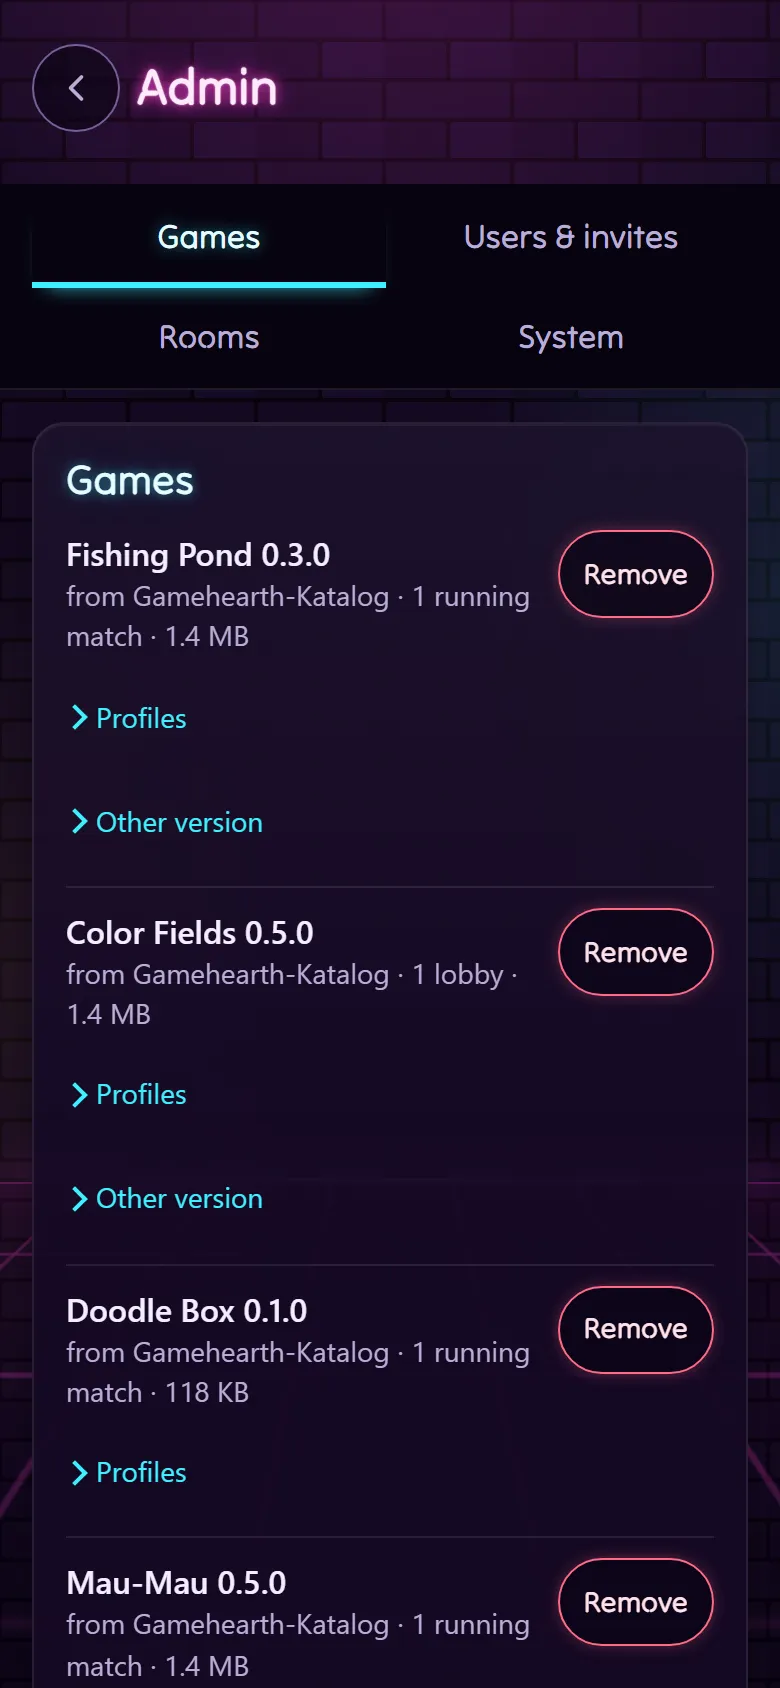
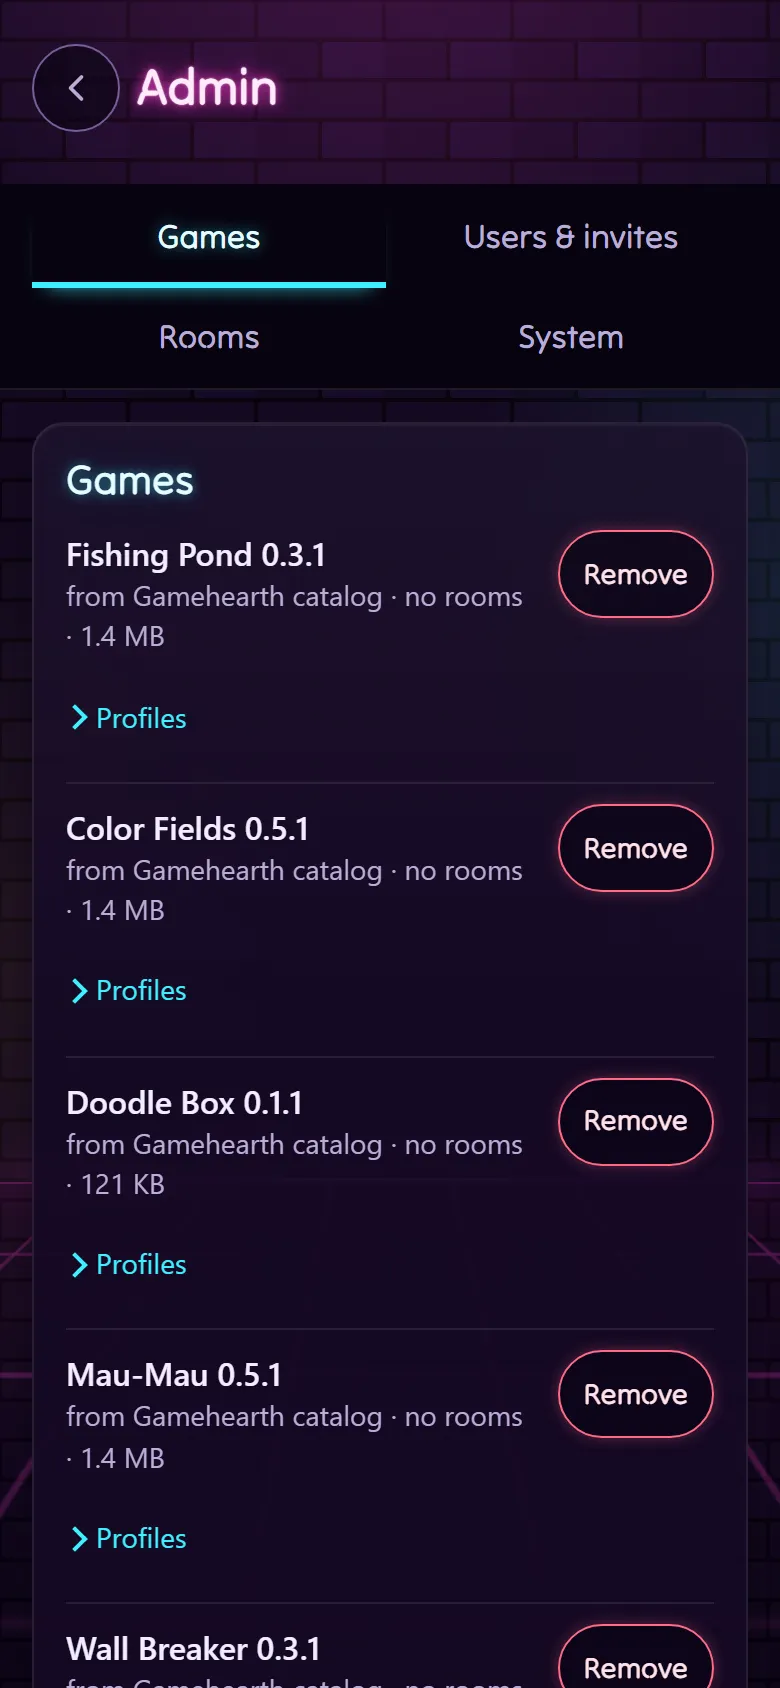
Website in English throughout, fresh screenshots of the released versions; lessons from publishing in the design doc

diff --git a/site/index.html b/site/index.html
@@ -376,7 +376,7 @@ npm run dev</code></pre>
             <img class="shot phone" src="img/farbfelder-phone.webp" width="780" height="1688" loading="lazy" decoding="async" alt="Color Fields on Anna's phone: her color, her squares and rank, a large d-pad and a Splat button.">
           </div>
           <div class="text">
-            <h3 id="g-farbfelder">Farbfelder <small>Color Fields · 2–8 players · realtime</small></h3>
+            <h3 id="g-farbfelder">Color Fields <small>2–8 players · realtime</small></h3>
             <p>The TV shows the field, the phones are d-pads. Run across the grid, paint every square you step on and splat a 3×3 blob now and then. When 90 seconds are up, the largest area wins.</p>
           </div>
         </article>
@@ -392,7 +392,7 @@ npm run dev</code></pre>
         <article class="card game tone-amber" aria-labelledby="g-mauerbrecher">
           <img class="shot phone" src="img/mauerbrecher.webp" width="780" height="1688" loading="lazy" decoding="async" alt="Wall Breaker on a phone: level 1 of 10, the points and three hearts, a wall of bricks, the ball and the paddle.">
           <div class="text">
-            <h3 id="g-mauerbrecher">Mauerbrecher <small>Wall Breaker · single player</small></h3>
+            <h3 id="g-mauerbrecher">Wall Breaker <small>single player</small></h3>
             <p>Ball and paddle against ten walls of bricks, with power-ups. Plays offline; the save and best score follow you to your other devices.</p>
           </div>
         </article>
@@ -400,7 +400,7 @@ npm run dev</code></pre>
         <article class="card game tone-green" aria-labelledby="g-angelteich">
           <img class="shot phone" src="img/angelteich.webp" width="780" height="1688" loading="lazy" decoding="async" alt="Fishing Pond on a phone: a round of fishing against Ben and a bot, the latest catch, coins, bait and a Cast your line button.">
           <div class="text">
-            <h3 id="g-angelteich">Angelteich <small>Fishing Pond · 1–4 players · turn-based</small></h3>
+            <h3 id="g-angelteich">Fishing Pond <small>1–4 players · turn-based</small></h3>
             <p>Take turns at the pond: catch fish, sell them at the shop, buy better rods. The collection book lives in your profile and grows from match to match.</p>
           </div>
         </article>
@@ -411,7 +411,7 @@ npm run dev</code></pre>
             <img class="shot phone" src="img/kritzelkiste-guess.webp" width="780" height="1688" loading="lazy" decoding="async" alt="Doodle Box on the phone of a player who guesses: the same drawing, empty boxes for the letters of the word, crossed-out wrong guesses, a note that another player guessed it, and the guess field.">
           </div>
           <div class="text">
-            <h3 id="g-kritzelkiste">Kritzelkiste <small>Doodle Box · 2–10 players · party game</small></h3>
+            <h3 id="g-kritzelkiste">Doodle Box <small>2–10 players · party game</small></h3>
             <p>One player draws a word with a finger, everyone else watches the picture appear on their own phone and guesses. The faster you guess, the more points you get. Players can add their own words, and a TV is optional.</p>
           </div>
         </article>

diff --git a/docs/design.md b/docs/design.md
@@ -1394,6 +1394,15 @@ Decided on 2026-11-25 in a grilling session before step 16. Until then only the 
 
 **Issues and pull requests are open.** The platform, the games and the catalog each have a short `CONTRIBUTING.md` (open an issue first; contributions are licensed under the repo's license) and a `SECURITY.md` that points to GitHub's private vulnerability reporting instead of an e-mail address. The starter repo stays exactly what `new` creates and points to the platform for issues. Rejected: issues only (seems dismissive) and read-only repos (no way to report bugs).
 
+**Settled while publishing (2026-11-25).** Everything above was done in the planned order; the release packages built by CI are byte-identical with the packages `pack` built locally, and the npm packages with the tarballs that were reviewed before publishing. Before going public, two reviewers with no prior knowledge checked everything that would become public (files, images and their metadata, fonts, lock files, npm packages, repo descriptions) for private details.
+
+- npm stages the first publication of a new package: a public placeholder version `0.0.0-stage` appears at once, the real version follows after a few minutes of automated checks. The placeholders were deprecated afterwards. A new package can only be published from an account with a verified e-mail address, and npm shows the e-mail address of every maintainer publicly; the account therefore uses an address that exists only for this project.
+- The unscoped dev tool `gamehearth` belongs to the account that published it, not to the organization `gamehearth`; it appears under the organization only once the organization's team gets access to it.
+- After switching the games from `file:vendor/…` to npm ranges, `npm install` kept the old `file:` entries of SDK and dev tool in the lock files; only `npm install <package>@<range>` resolved them from the registry. The lock files were checked for `resolved` URLs outside the registry before publishing.
+- Right after a repo is renamed and made private, GitHub briefly rejects pushes to it ("repository is disabled"); a retry a few seconds later works.
+- The account's public profile (display name, e-mail, location, bio) is shown next to every repo and is checked along with the repos.
+- The website and its screenshots are English throughout: game names in their English form (Color Fields, Wall Breaker, Fishing Pond, Doodle Box; Mau-Mau keeps its name), and the catalog is now called "Gamehearth catalog" instead of "Gamehearth-Katalog", because servers show that name in every language.
+
 ### Automated testing
 
 Every multiplayer reducer **must** provide `legalMoves(state, playerId)`. For realtime games it describes the space of possible inputs.
@@ -1515,7 +1524,7 @@ Both built, reviewed and released on 2026-11-24.
 
 **Publication** (decided on 2026-11-25, see "Publication (step 16)"):
 
-16. SDK and dev tool on npm, the games and the catalog in fresh repos with npm and a patch version each, the starter repo, the platform repo public, the website on GitHub Pages
+16. SDK and dev tool on npm, the games and the catalog in fresh repos with npm and a patch version each, the starter repo, the platform repo public, the website on GitHub Pages; done on 2026-11-25
 
 ## Deliberately deferred
 
